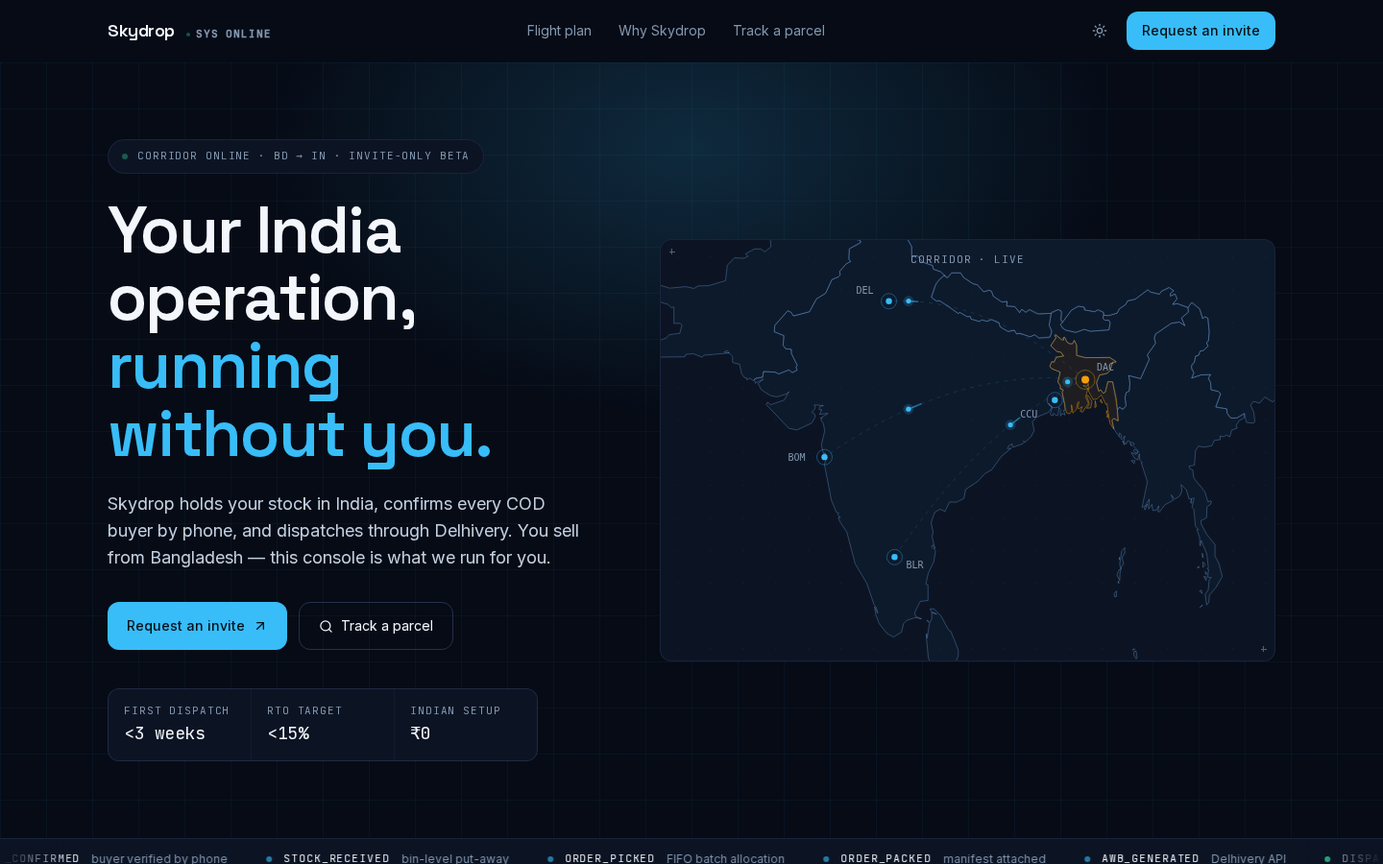
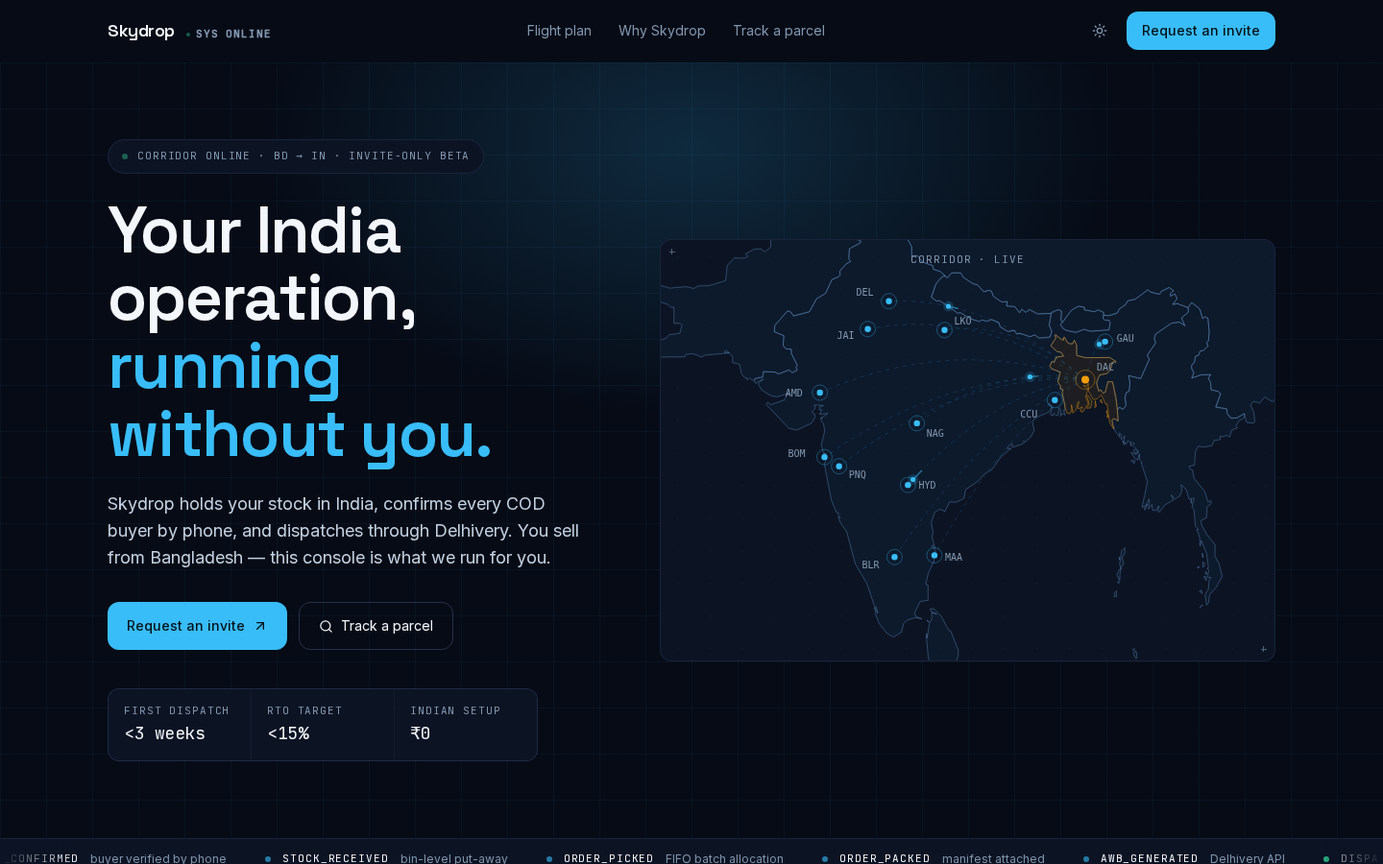
feat(marketing): pan-India corridor — 12 destination cities at true lat/lon
Review feedback: 4 metros made coverage look regional. Adds JAI, LKO,
GAU, AMD, NAG, PNQ, HYD, MAA (true geographic positions, hand-placed
label offsets). Parcel scheduler staggered so ~4 lanes fly at once —
alive, not swarmed. Delhivery genuinely serves all shown lanes.

diff --git a/apps/marketing/src/components/landing/map-geometry.ts b/apps/marketing/src/components/landing/map-geometry.ts
@@ -12,4 +12,4 @@ export const BD_RINGS: ReadonlyArray<Ring> = [[[0.6986, 0.4136], [0.6924, 0.382]
 export const LAND_RINGS: ReadonlyArray<Ring> = [[[0.4205, 0.8483], [0.4214, 0.8508], [0.4166, 0.8465], [0.4205, 0.8483]], [[0.4238, 0.8229], [0.4319, 0.8234], [0.4458, 0.8378], [0.4614, 0.8665], [0.4659, 0.869], [0.481, 0.9071], [0.4807, 0.92], [0.4738, 0.9358], [0.4462, 0.9507], [0.4324, 0.9497], [0.4271, 0.9449], [0.4199, 0.9223], [0.4156, 0.8773], [0.4167, 0.8735], [0.4176, 0.8827], [0.4221, 0.8534], [0.4272, 0.843], [0.4268, 0.8307], [0.4372, 0.834], [0.4256, 0.8284], [0.4238, 0.8229]], [[0.3262, -0.0387], [0.3348, -0.0203], [0.3211, -0.0079], [0.3043, -0.0057], [0.2943, -0.0001], [0.2515, -0.0089], [0.2412, -0.0051], [0.2362, 0.004], [0.2416, 0.0088], [0.2395, 0.0142], [0.2501, 0.0185], [0.2417, 0.026], [0.247, 0.0331], [0.2425, 0.0437], [0.2516, 0.0503], [0.2531, 0.0577], [0.2625, 0.0581], [0.2632, 0.0669], [0.2828, 0.074], [0.2804, 0.0786], [0.2592, 0.0894], [0.2581, 0.1105], [0.2616, 0.1155], [0.2527, 0.1202], [0.2394, 0.1355], [0.2404, 0.1426], [0.2367, 0.1469], [0.2237, 0.1522], [0.2106, 0.1804], [0.1921, 0.1916], [0.1779, 0.2179], [0.1453, 0.2264], [0.1402, 0.2187], [0.1335, 0.2158], [0.1072, 0.2459], [0.1063, 0.2586], [0.1257, 0.2665], [0.1243, 0.2863], [0.1292, 0.2931], [0.1409, 0.2944], [0.141, 0.3026], [0.153, 0.3271], [0.1506, 0.3309], [0.1529, 0.3367], [0.1429, 0.342], [0.1361, 0.3363], [0.1153, 0.3445], [0.1078, 0.3409], [0.0843, 0.3396], [0.0825, 0.3512], [0.0692, 0.3524], [0.0641, 0.3582], [0.0563, 0.3533], [0.0505, 0.3563], [0.0499, 0.3527], [0.0455, 0.352], [0.0396, 0.3442], [0.0355, 0.3248], [0.0213, 0.3213], [0.0212, 0.3091], [0.0099, 0.2966], [0.004, 0.3002], [0.0142, 0.3018], [-0.0371, 0.3064], [-0.0407, 0.3105], [-0.0588, 0.3032], [-0.074, 0.3049], [-0.076, 0.3096], [-0.1344, 0.3104], [-0.126, 0.2758], [-0.114, 0.2714], [-0.1079, 0.2646], [-0.0861, 0.2617], [-0.0818, 0.2449], [-0.0858, 0.2416], [-0.0981, 0.2416], [-0.0983, 0.2085], [-0.1041, 0.2088], [-0.1105, 0.2028], [-0.1245, 0.1985], [-0.1563, 0.1547], [-0.1068, 0.1697], [-0.0737, 0.1667], [-0.0576, 0.1703], [-0.0487, 0.1652], [-0.0275, 0.1647], [0.007, 0.1545], [0.0105, 0.1232], [0.0251, 0.1079], [0.044, 0.1088], [0.0526, 0.1052], [0.0478, 0.0998], [0.0655, 0.0899], [0.0787, 0.0899], [0.087, 0.0955], [0.0994, 0.0855], [0.0982, 0.0689], [0.1061, 0.0494], [0.1188, 0.0462], [0.1299, 0.0377], [0.1172, 0.0201], [0.1179, 0.0164], [0.141, 0.0183], [0.1531, 0.015], [0.1544, 0.0043], [0.1505, -0.001], [0.1703, -0.0227], [0.1644, -0.0444], [0.1571, -0.0514], [0.1703, -0.0645], [0.1749, -0.0644], [0.1866, -0.0734], [0.2157, -0.0789], [0.2436, -0.0775], [0.2607, -0.0846], [0.2771, -0.0825], [0.2832, -0.0804], [0.2855, -0.0746], [0.293, -0.0747], [0.2995, -0.07], [0.3022, -0.0627], [0.3004, -0.0516], [0.3075, -0.0443], [0.3198, -0.0462], [0.3201, -0.0424], [0.3262, -0.0387]], [[0.67, 0.221], [0.6662, 0.2455], [0.6714, 0.2564], [0.6683, 0.269], [0.6451, 0.2713], [0.6368, 0.2648], [0.6273, 0.2688], [0.6063, 0.2617], [0.5998, 0.2632], [0.5954, 0.2557], [0.5816, 0.2578], [0.5662, 0.2486], [0.5639, 0.24], [0.5482, 0.2336], [0.5403, 0.2374], [0.5287, 0.2345], [0.5239, 0.2377], [0.5071, 0.2327], [0.5054, 0.2275], [0.4985, 0.2276], [0.4845, 0.2195], [0.4804, 0.2211], [0.4596, 0.2055], [0.4421, 0.195], [0.437, 0.1963], [0.4258, 0.1877], [0.4339, 0.1643], [0.4428, 0.1515], [0.4518, 0.1443], [0.4599, 0.1487], [0.4672, 0.1388], [0.4805, 0.1379], [0.4862, 0.1391], [0.4915, 0.1478], [0.5107, 0.1606], [0.5199, 0.1629], [0.5328, 0.1772], [0.5435, 0.174], [0.5486, 0.176], [0.5524, 0.1863], [0.5696, 0.198], [0.5806, 0.1969], [0.5794, 0.2061], [0.5963, 0.2074], [0.6059, 0.2197], [0.6102, 0.2128], [0.6185, 0.219], [0.6247, 0.2132], [0.6406, 0.222], [0.67, 0.221]], [[0.0656, 0.3548], [0.0825, 0.3512], [0.0843, 0.3396], [0.1078, 0.3409], [0.1153, 0.3445], [0.1361, 0.3363], [0.1429, 0.342], [0.1529, 0.3367], [0.1506, 0.3309], [0.153, 0.3271], [0.141, 0.3026], [0.1409, 0.2944], [0.1292, 0.2931], [0.1243, 0.2863], [0.1257, 0.2665], [0.1063, 0.2586], [0.1072, 0.2459], [0.1335, 0.2158], [0.1402, 0.2187], [0.1453, 0.2264], [0.1779, 0.2179], [0.1921, 0.1916], [0.2106, 0.1804], [0.2237, 0.1522], [0.2367, 0.1469], [0.2404, 0.1426], [0.2394, 0.1355], [0.2527, 0.1202], [0.2616, 0.1155], [0.2581, 0.1105], [0.2592, 0.0894], [0.2826, 0.0761], [0.2799, 0.0709], [0.2632, 0.0669], [0.2625, 0.0581], [0.2531, 0.0577], [0.2516, 0.0503], [0.2425, 0.0437], [0.247, 0.0331], [0.2417, 0.026], [0.2501, 0.0185], [0.2395, 0.0142], [0.2416, 0.0088], [0.2362, 0.004], [0.2412, -0.0051], [0.2515, -0.0089], [0.2943, -0.0001], [0.3043, -0.0057], [0.3211, -0.0079], [0.3348, -0.0203], [0.3575, -0.0332], [0.365, -0.0326], [0.364, -0.025], [0.3736, -0.0035], [0.393, 0.0066], [0.3857, 0.0162], [0.388, 0.0333], [0.398, 0.0443], [0.4006, 0.0667], [0.3915, 0.0714], [0.3849, 0.0634], [0.3754, 0.066], [0.3859, 0.0847], [0.3861, 0.1059], [0.3971, 0.1032], [0.4089, 0.1169], [0.4288, 0.1237], [0.4301, 0.1311], [0.4449, 0.1362], [0.4548, 0.1445], [0.4499, 0.1454], [0.4364, 0.159], [0.4264, 0.189], [0.437, 0.1963], [0.4421, 0.195], [0.4804, 0.2211], [0.4845, 0.2195], [0.4985, 0.2276], [0.5054, 0.2275], [0.5071, 0.2327], [0.5239, 0.2377], [0.5287, 0.2345], [0.5403, 0.2374], [0.5482, 0.2336], [0.5639, 0.24], [0.5662, 0.2486], [0.583, 0.2583], [0.5954, 0.2557], [0.5998, 0.2632], [0.6063, 0.2617], [0.6273, 0.2688], [0.6368, 0.2648], [0.6451, 0.2713], [0.6665, 0.2706], [0.6716, 0.2592], [0.6662, 0.2455], [0.671, 0.2184], [0.6842, 0.2136], [0.691, 0.2164], [0.6894, 0.2326], [0.6936, 0.2394], [0.6891, 0.2441], [0.6927, 0.2513], [0.7015, 0.2561], [0.7202, 0.2599], [0.7377, 0.2537], [0.7497, 0.2576], [0.7878, 0.2548], [0.7904, 0.2403], [0.7876, 0.235], [0.78, 0.2352], [0.7756, 0.2314], [0.7768, 0.2247], [0.7872, 0.2257], [0.8045, 0.2207], [0.8092, 0.2118], [0.8218, 0.2033], [0.8259, 0.1957], [0.8412, 0.1923], [0.8673, 0.1729], [0.8718, 0.1775], [0.8906, 0.1821], [0.8944, 0.1764], [0.9102, 0.1684], [0.9199, 0.175], [0.9128, 0.1806], [0.9132, 0.1859], [0.9223, 0.1816], [0.9267, 0.1912], [0.9176, 0.2029], [0.9273, 0.2013], [0.9491, 0.2094], [0.9496, 0.2187], [0.9356, 0.2304], [0.9425, 0.2462], [0.9312, 0.2389], [0.9149, 0.2413], [0.8827, 0.2634], [0.8803, 0.2717], [0.8828, 0.282], [0.866, 0.306], [0.8699, 0.315], [0.8524, 0.3541], [0.828, 0.3479], [0.8308, 0.3606], [0.8292, 0.3789], [0.8231, 0.3823], [0.8205, 0.3927], [0.8228, 0.409], [0.8154, 0.417], [0.8097, 0.4122], [0.8052, 0.4174], [0.7953, 0.3606], [0.7857, 0.3604], [0.7804, 0.3816], [0.7763, 0.384], [0.7708, 0.3766], [0.7672, 0.3798], [0.7626, 0.364], [0.7687, 0.3469], [0.7842, 0.3435], [0.791, 0.3364], [0.7948, 0.3206], [0.8013, 0.3217], [0.8021, 0.3185], [0.7894, 0.311], [0.7406, 0.3114], [0.7222, 0.3069], [0.7219, 0.2853], [0.7173, 0.2762], [0.7136, 0.2831], [0.7082, 0.2831], [0.7026, 0.2798], [0.6976, 0.2697], [0.6946, 0.2708], [0.696, 0.275], [0.6918, 0.2749], [0.6778, 0.2645], [0.68, 0.271], [0.6692, 0.2871], [0.6819, 0.2988], [0.6899, 0.3003], [0.6955, 0.308], [0.6804, 0.3104], [0.6762, 0.3206], [0.6712, 0.3195], [0.6674, 0.3291], [0.6711, 0.3338], [0.6886, 0.3408], [0.6838, 0.3608], [0.6891, 0.3688], [0.6886, 0.3749], [0.6948, 0.3771], [0.6924, 0.382], [0.6984, 0.4075], [0.6978, 0.4188], [0.6954, 0.4187], [0.6986, 0.4282], [0.6927, 0.4252], [0.6893, 0.4305], [0.6891, 0.4165], [0.6861, 0.4126], [0.6844, 0.428], [0.6802, 0.4295], [0.6754, 0.4247], [0.6743, 0.4292], [0.6704, 0.4288], [0.6683, 0.4269], [0.6726, 0.412], [0.6648, 0.4042], [0.6715, 0.4126], [0.6651, 0.4225], [0.6394, 0.4333], [0.6321, 0.4421], [0.6356, 0.46], [0.6288, 0.4729], [0.6175, 0.4831], [0.6135, 0.4816], [0.6155, 0.4838], [0.6126, 0.4868], [0.5932, 0.4936], [0.5908, 0.4934], [0.591, 0.4871], [0.5832, 0.4914], [0.5813, 0.4968], [0.5891, 0.4958], [0.5688, 0.5125], [0.5487, 0.5402], [0.535, 0.5476], [0.5212, 0.563], [0.4958, 0.5801], [0.4927, 0.598], [0.4776, 0.6057], [0.4632, 0.6055], [0.4539, 0.6247], [0.4438, 0.6202], [0.4331, 0.6263], [0.4258, 0.6475], [0.4296, 0.6674], [0.4277, 0.6763], [0.4336, 0.7005], [0.429, 0.6929], [0.4262, 0.6965], [0.4347, 0.7046], [0.4312, 0.727], [0.4199, 0.7504], [0.4149, 0.7729], [0.4193, 0.7744], [0.4194, 0.8059], [0.4035, 0.8081], [0.3921, 0.8311], [0.3945, 0.8389], [0.4064, 0.8436], [0.3933, 0.841], [0.3764, 0.8465], [0.3694, 0.8536], [0.3655, 0.8705], [0.349, 0.8807], [0.3353, 0.8728], [0.3198, 0.8532], [0.3129, 0.835], [0.3104, 0.8191], [0.317, 0.8321], [0.3136, 0.8193], [0.3098, 0.8159], [0.2947, 0.7713], [0.271, 0.7312], [0.254, 0.6668], [0.2409, 0.6475], [0.2364, 0.6368], [0.2404, 0.6368], [0.2355, 0.6309], [0.2373, 0.628], [0.2327, 0.6263], [0.2224, 0.6013], [0.2083, 0.5285], [0.2123, 0.516], [0.2112, 0.5115], [0.2071, 0.5175], [0.2061, 0.514], [0.2064, 0.5067], [0.2118, 0.5074], [0.2057, 0.5046], [0.2021, 0.489], [0.2089, 0.4609], [0.2064, 0.4461], [0.2008, 0.4376], [0.204, 0.4343], [0.2004, 0.4346], [0.2155, 0.425], [0.1983, 0.4268], [0.2031, 0.4176], [0.1976, 0.4174], [0.1986, 0.4113], [0.2063, 0.4089], [0.1873, 0.4077], [0.1902, 0.4137], [0.183, 0.4226], [0.1882, 0.4257], [0.1895, 0.4323], [0.1823, 0.4448], [0.1522, 0.4587], [0.1359, 0.4553], [0.09, 0.407], [0.0924, 0.4021], [0.0993, 0.4071], [0.1266, 0.3976], [0.1361, 0.3804], [0.1315, 0.3853], [0.1111, 0.3913], [0.0981, 0.3884], [0.08, 0.377], [0.0732, 0.3643], [0.0841, 0.3549], [0.0677, 0.3635], [0.0656, 0.3548]], [[0.8452, 0.9223], [0.8433, 0.9251], [0.8381, 0.9161], [0.839, 0.9105], [0.8431, 0.9088], [0.8452, 0.9223]], [[0.8404, 0.9048], [0.8375, 0.9079], [0.8362, 0.906], [0.8404, 0.9048]], [[0.8031, 0.7981], [0.799, 0.7984], [0.7986, 0.7916], [0.8034, 0.7867], [0.8031, 0.7981]], [[0.8088, 0.7706], [0.8059, 0.7704], [0.8073, 0.7664], [0.8088, 0.7706]], [[0.8098, 0.7655], [0.804, 0.7542], [0.8084, 0.7436], [0.8118, 0.7425], [0.8097, 0.7319], [0.8139, 0.7048], [0.8201, 0.6985], [0.8202, 0.7093], [0.8147, 0.7186], [0.8179, 0.7321], [0.8141, 0.7355], [0.8105, 0.7502], [0.8098, 0.7655]], [[0.8096, 0.7212], [0.8086, 0.7233], [0.8094, 0.7179], [0.8096, 0.7212]], [[1.2719, 0.4331], [1.2654, 0.4281], [1.2531, 0.4297], [1.2415, 0.4192], [1.2322, 0.4174], [1.2289, 0.4], [1.2357, 0.3907], [1.2285, 0.3864], [1.2206, 0.3881], [1.2166, 0.3843], [1.2074, 0.3859], [1.1901, 0.3718], [1.1777, 0.3788], [1.1723, 0.3893], [1.1627, 0.3932], [1.1559, 0.39], [1.1498, 0.3986], [1.14, 0.3906], [1.1361, 0.3971], [1.1303, 0.3912], [1.1214, 0.4016], [1.1051, 0.3916], [1.0948, 0.404], [1.082, 0.4004], [1.0764, 0.4082], [1.0829, 0.4225], [1.085, 0.4422], [1.0827, 0.4448], [1.0682, 0.4434], [1.063, 0.4248], [1.0486, 0.4343], [1.0348, 0.434], [1.0286, 0.4247], [1.0278, 0.4157], [1.0052, 0.4115], [1.0154, 0.3847], [1.0103, 0.3801], [0.9958, 0.3769], [0.995, 0.3625], [0.9902, 0.3532], [0.995, 0.346], [0.9761, 0.3463], [0.9564, 0.353], [0.9608, 0.3424], [0.9555, 0.329], [0.9618, 0.321], [0.9642, 0.3082], [0.97, 0.3069], [0.974, 0.2976], [0.9798, 0.2971], [0.9896, 0.2879], [0.9868, 0.2809], [0.9905, 0.277], [0.9921, 0.26], [0.9894, 0.2309], [0.9834, 0.2281], [0.9787, 0.2317], [0.9727, 0.2119], [0.9594, 0.2], [0.9557, 0.1996], [0.9491, 0.2094], [0.9273, 0.2013], [0.9176, 0.2029], [0.9267, 0.1912], [0.9223, 0.1816], [0.9132, 0.1859], [0.9128, 0.1806], [0.9199, 0.175], [0.9102, 0.1684], [0.8944, 0.1764], [0.8906, 0.1821], [0.8718, 0.1775], [0.8673, 0.1729], [0.8412, 0.1923], [0.8259, 0.1957], [0.8218, 0.2033], [0.8092, 0.2118], [0.8045, 0.2207], [0.7872, 0.2257], [0.7768, 0.2247], [0.777, 0.2192], [0.7659, 0.214], [0.7582, 0.2177], [0.7379, 0.214], [0.7378, 0.2085], [0.7242, 0.2069], [0.7115, 0.2147], [0.6936, 0.2394], [0.6898, 0.2357], [0.6923, 0.221], [0.6896, 0.2153], [0.6842, 0.2136], [0.67, 0.221], [0.6452, 0.2226], [0.627, 0.2135], [0.6185, 0.219], [0.6102, 0.2128], [0.6059, 0.2197], [0.5963, 0.2074], [0.5794, 0.2061], [0.5806, 0.1969], [0.5696, 0.198], [0.5524, 0.1863], [0.5486, 0.176], [0.5435, 0.174], [0.5328, 0.1772], [0.5199, 0.1629], [0.5107, 0.1606], [0.4915, 0.1478], [0.4862, 0.1391], [0.4672, 0.1388], [0.4579, 0.1488], [0.4449, 0.1362], [0.4301, 0.1311], [0.4288, 0.1237], [0.4089, 0.1169], [0.3971, 0.1032], [0.3866, 0.1066], [0.3859, 0.0847], [0.3754, 0.066], [0.3849, 0.0634], [0.3915, 0.0714], [0.4006, 0.0667], [0.398, 0.0443], [0.388, 0.0333], [0.3857, 0.0162], [0.393, 0.0066], [0.3722, -0.0052], [0.364, -0.025], [0.365, -0.0326], [0.336, -0.0351], [0.3222, -0.041], [0.3198, -0.0462], [0.3084, -0.0437], [0.3004, -0.0516], [0.3022, -0.0627], [0.2982, -0.0716], [0.2855, -0.0746], [0.2832, -0.0804], [0.2588, -0.0841], [0.2538, -0.0879], [0.2645, -0.093], [0.2694, -0.091], [0.2764, -0.0962], [0.2695, -0.1034], [0.267, -0.132], [0.2508, -0.1387], [0.2416, -0.1344], [0.235, -0.14], [0.2332, -0.1451], [0.2365, -0.149], [0.2305, -0.1576], [0.2313, -0.165], [0.2396, -0.1693], [0.2374, -0.1767], [0.2406, -0.1826], [0.2676, -0.1943], [0.2677, -0.1994], [0.2801, -0.1994], [0.2885, -0.2043], [0.2933, -0.1935], [0.3108, -0.1977], [0.3127, -0.1951], [0.3306, -0.2175], [0.3674, -0.2192], [0.3747, -0.229], [0.3861, -0.2354], [0.4194, -0.2499], [0.4314, -0.2514], [0.4292, -0.2722], [0.4318, -0.2766], [0.4406, -0.2791], [0.4361, -0.2848], [0.4481, -0.2887], [0.435, -0.3199], [0.435, -0.3351], [0.4388, -0.3405], [0.4204, -0.3461], [0.426, -0.3502], [0.4755, -0.3616], [0.4808, -0.3561], [0.4929, -0.3573], [0.5007, -0.3542], [0.5034, -0.3642], [0.4944, -0.3698], [0.516, -0.4228], [0.5459, -0.4157], [0.5657, -0.4157], [0.5693, -0.411], [0.5904, -0.4188], [0.5957, -0.4252], [0.5916, -0.4472], [0.5955, -0.4584], [0.5985, -0.4628], [0.6227, -0.4676], [0.6279, -0.4732], [0.6288, -0.4836], [0.6329, -0.4864], [0.661, -0.4888], [0.6628, -0.4833], [0.6588, -0.4794], [0.6684, -0.4736], [0.666, -0.4685], [0.6823, -0.4628], [0.6842, -0.4573], [0.6984, -0.4501], [0.7115, -0.451], [0.7206, -0.4443], [0.7281, -0.4459], [0.7367, -0.4392], [0.7423, -0.4262], [0.7536, -0.4151], [0.7584, -0.4022], [0.7548, -0.3923], [0.7577, -0.3845], [0.7487, -0.3743], [0.7473, -0.3675], [0.7539, -0.3565], [0.8338, -0.3481], [0.87, -0.3283], [0.8894, -0.3259], [0.8887, -0.318], [0.8947, -0.3151], [0.9048, -0.2925], [0.9182, -0.281], [0.9208, -0.274], [0.9456, -0.2763], [1.0142, -0.2689], [1.0298, -0.2726], [1.0756, -0.2679], [1.0956, -0.2553], [1.1235, -0.2502], [1.1428, -0.2417], [1.1666, -0.2459], [1.1666, -0.2387], [1.1813, -0.2365], [1.2355, -0.2596], [1.2779, -0.2649], [1.3133, -0.2646], [1.3455, -0.2758], [1.3639, -0.2947], [1.3919, -0.307], [1.3758, -0.3289], [1.3825, -0.3443], [1.3909, -0.3521], [1.4065, -0.352], [1.4154, -0.3461], [1.442, -0.3415], [1.457, -0.3491], [1.4715, -0.363], [1.5055, -0.3653], [1.5211, -0.3746], [1.5322, -0.393], [1.5412, -0.3963], [1.5556, -0.3954], [1.5587, -0.4029], [1.5679, -0.4006], [1.5779, -0.4055], [1.6013, -0.4087], [1.6161, -0.4038], [1.6324, -0.4057], [1.6333, -0.4119], [1.6276, -0.4217], [1.5908, -0.4495], [1.5688, -0.4496], [1.5561, -0.4384], [1.5382, -0.4456], [1.5222, -0.4453], [1.5121, -0.4396], [1.5035, -0.4458], [1.5007, -0.4544], [1.5087, -0.4583], [1.5098, -0.4692], [1.5358, -0.5108], [1.5719, -0.5004], [1.5894, -0.5115], [1.6139, -0.5189], [1.6166, -0.526], [1.611, -0.5302], [1.6384, -0.57], [1.6591, -0.5865], [1.6563, -0.6022], [1.6415, -0.6034], [1.6377, -0.6073], [1.6662, -0.6261], [1.7457, -0.6349], [1.7822, -0.6211], [1.7901, -0.6235], [1.8076, -0.6181], [1.8285, -0.5954], [1.8462, -0.5533], [1.8578, -0.5403], [1.8587, -0.5283], [1.8664, -0.5236], [1.8634, -0.5158], [1.8652, -0.51], [1.8788, -0.5023], [1.9001, -0.5033], [1.9111, -0.4958], [1.9242, -0.4963], [1.9454, -0.4797], [1.9562, -0.4787], [1.9562, -0.4701], [1.9638, -0.4614], [1.9616, -0.4506], [1.9698, -0.4397], [2.0144, -0.4405], [2.0214, -0.4482], [2.0347, -0.4535], [2.0445, -0.4532], [2.0695, -0.4624], [2.0807, -0.4585], [2.0778, -0.4507], [2.0834, -0.4405], [2.0657, -0.4267], [2.0668, -0.4209], [2.0565, -0.4], [2.0564, -0.3916], [2.0458, -0.3793], [2.0435, -0.3702], [2.0359, -0.3665], [2.0337, -0.3544], [2.0284, -0.351], [1.9955, -0.3609], [1.9832, -0.3495], [1.9691, -0.3448], [1.9774, -0.319], [1.9749, -0.3068], [1.9775, -0.2959], [1.9718, -0.2801], [1.9522, -0.2742], [1.9568, -0.2708], [1.9554, -0.2679], [1.9483, -0.2728], [1.9467, -0.2797], [1.9363, -0.2833], [1.9302, -0.2649], [1.9186, -0.2638], [1.9067, -0.2513], [1.8801, -0.2496], [1.8875, -0.2369], [1.8833, -0.2296], [1.8539, -0.2344], [1.8455, -0.2427], [1.8401, -0.2406], [1.8178, -0.2135], [1.7846, -0.1987], [1.7657, -0.1808], [1.7608, -0.178], [1.747, -0.1794], [1.7224, -0.17], [1.7071, -0.1622], [1.6964, -0.1518], [1.6871, -0.1501], [1.6864, -0.1455], [1.6717, -0.141], [1.6699, -0.1473], [1.6873, -0.1536], [1.6857, -0.1573], [1.6915, -0.1629], [1.675, -0.1628], [1.6748, -0.1682], [1.6823, -0.1713], [1.6823, -0.1782], [1.691, -0.1817], [1.7049, -0.2], [1.6927, -0.2114], [1.6919, -0.2158], [1.6888, -0.2115], [1.672, -0.2134], [1.6509, -0.191], [1.6179, -0.1751], [1.6053, -0.1561], [1.5848, -0.1523], [1.577, -0.1576], [1.5692, -0.1545], [1.5622, -0.1397], [1.5653, -0.1308], [1.5762, -0.1228], [1.6042, -0.1181], [1.6087, -0.1067], [1.6047, -0.0944], [1.6095, -0.09], [1.6291, -0.0885], [1.6328, -0.095], [1.6458, -0.1041], [1.6442, -0.106], [1.6591, -0.1111], [1.6861, -0.0987], [1.6959, -0.0981], [1.6987, -0.101], [1.7171, -0.0968], [1.7105, -0.0856], [1.7127, -0.0815], [1.7073, -0.0777], [1.7019, -0.0819], [1.6949, -0.082], [1.6683, -0.0704], [1.661, -0.0711], [1.6635, -0.0648], [1.6579, -0.0638], [1.6557, -0.0543], [1.6483, -0.0518], [1.6463, -0.0576], [1.6419, -0.0568], [1.6393, -0.0539], [1.645, -0.0495], [1.6191, -0.0267], [1.6111, -0.0116], [1.6122, -0.0083], [1.6445, 0.0075], [1.6627, 0.0495], [1.6623, 0.0613], [1.677, 0.0691], [1.6803, 0.0782], [1.6919, 0.0867], [1.6929, 0.0932], [1.6898, 0.0933], [1.6773, 0.0881], [1.6659, 0.0877], [1.6521, 0.0798], [1.6374, 0.0855], [1.658, 0.0839], [1.6602, 0.0893], [1.6867, 0.106], [1.6919, 0.1146], [1.6933, 0.1194], [1.6794, 0.1237], [1.6613, 0.1382], [1.6499, 0.1371], [1.6423, 0.1419], [1.6514, 0.1399], [1.6555, 0.1456], [1.6745, 0.1399], [1.6873, 0.1507], [1.6995, 0.1543], [1.682, 0.1672], [1.6936, 0.1624], [1.696, 0.167], [1.6945, 0.1789], [1.6885, 0.1748], [1.6803, 0.179], [1.6873, 0.1849], [1.683, 0.1856], [1.6867, 0.1883], [1.681, 0.1953], [1.6852, 0.2069], [1.6749, 0.2092], [1.6711, 0.2058], [1.6654, 0.2154], [1.659, 0.2164], [1.6616, 0.2203], [1.6542, 0.2306], [1.6547, 0.2363], [1.6448, 0.2467], [1.6376, 0.2622], [1.6328, 0.263], [1.6311, 0.2551], [1.6276, 0.2591], [1.6239, 0.2572], [1.6327, 0.2722], [1.6201, 0.2815], [1.6102, 0.2793], [1.6161, 0.285], [1.6249, 0.2832], [1.6225, 0.297], [1.625, 0.3036], [1.6115, 0.3017], [1.6147, 0.3089], [1.6053, 0.3097], [1.6033, 0.319], [1.5951, 0.3221], [1.5976, 0.3251], [1.5956, 0.3293], [1.5784, 0.3291], [1.576, 0.3339], [1.571, 0.3342], [1.5775, 0.3418], [1.5645, 0.3555], [1.5596, 0.3553], [1.5566, 0.3637], [1.5543, 0.3595], [1.5479, 0.364], [1.5427, 0.3618], [1.5413, 0.3683], [1.5342, 0.3716], [1.5364, 0.3741], [1.5315, 0.3773], [1.5294, 0.3852], [1.5227, 0.3839], [1.5106, 0.39], [1.5043, 0.3882], [1.4999, 0.3927], [1.4908, 0.3894], [1.4804, 0.3961], [1.4743, 0.3915], [1.4714, 0.399], [1.4648, 0.3969], [1.455, 0.3996], [1.443, 0.3879], [1.443, 0.3791], [1.4399, 0.3799], [1.4343, 0.3863], [1.441, 0.3968], [1.4409, 0.4092], [1.4287, 0.4141], [1.427, 0.4097], [1.4228, 0.4198], [1.4185, 0.4185], [1.4117, 0.4241], [1.4048, 0.4174], [1.4032, 0.4253], [1.3923, 0.4217], [1.3819, 0.4314], [1.3641, 0.433], [1.3505, 0.4428], [1.3458, 0.4387], [1.3381, 0.4519], [1.3444, 0.4554], [1.3429, 0.461], [1.3489, 0.4661], [1.3438, 0.4735], [1.3298, 0.4712], [1.3324, 0.4684], [1.3231, 0.4527], [1.3237, 0.4456], [1.3313, 0.434], [1.3239, 0.4325], [1.3202, 0.427], [1.3195, 0.4321], [1.3075, 0.4358], [1.3061, 0.4303], [1.2962, 0.429], [1.2907, 0.42], [1.2872, 0.4199], [1.288, 0.4289], [1.2825, 0.4269], [1.2802, 0.4314], [1.2719, 0.4331]], [[1.034, 0.4728], [1.027, 0.4692], [1.0218, 0.4725], [1.0139, 0.4713], [1.0147, 0.4783], [1.0023, 0.48], [0.9975, 0.4909], [0.981, 0.4937], [0.9702, 0.4917], [0.9642, 0.5014], [0.962, 0.5304], [0.9508, 0.5327], [0.9531, 0.538], [0.9585, 0.5403], [0.9608, 0.5568], [0.983, 0.5842], [0.9897, 0.6056], [0.9951, 0.6027], [0.9966, 0.6049], [0.9945, 0.6107], [0.9876, 0.615], [0.9866, 0.6377], [0.9755, 0.6432], [0.9759, 0.6508], [0.987, 0.6714], [1.0041, 0.6928], [1.0038, 0.7156], [1.0123, 0.7317], [1.0186, 0.7573], [1.0058, 0.7798], [0.9927, 0.7946], [0.991, 0.8103], [0.9868, 0.8155], [0.9838, 0.7942], [0.9902, 0.7838], [0.9921, 0.7636], [0.9963, 0.7593], [0.989, 0.7587], [0.9908, 0.7425], [0.9879, 0.7418], [0.9903, 0.7384], [0.9871, 0.7113], [0.9758, 0.684], [0.9742, 0.6951], [0.973, 0.6929], [0.9727, 0.678], [0.9669, 0.6616], [0.9703, 0.6616], [0.964, 0.6547], [0.9609, 0.6208], [0.9571, 0.616], [0.9614, 0.5977], [0.9508, 0.5993], [0.9454, 0.5802], [0.9348, 0.57], [0.9366, 0.5823], [0.9323, 0.593], [0.9222, 0.5998], [0.9148, 0.591], [0.9189, 0.6019], [0.9019, 0.611], [0.8906, 0.6259], [0.8879, 0.6248], [0.8892, 0.6134], [0.8841, 0.6225], [0.877, 0.6227], [0.8755, 0.6105], [0.8685, 0.6199], [0.8698, 0.5996], [0.8619, 0.6135], [0.8553, 0.6161], [0.8663, 0.5644], [0.8537, 0.5256], [0.856, 0.5253], [0.8506, 0.5202], [0.8499, 0.5071], [0.8464, 0.52], [0.8396, 0.5158], [0.8332, 0.5044], [0.8432, 0.5087], [0.8484, 0.502], [0.8367, 0.4908], [0.8396, 0.4862], [0.8258, 0.481], [0.8222, 0.488], [0.8182, 0.4809], [0.8202, 0.4707], [0.8146, 0.4783], [0.8119, 0.4763], [0.8136, 0.4695], [0.8094, 0.4645], [0.8098, 0.4735], [0.7994, 0.4594], [0.7934, 0.4402], [0.7979, 0.4353], [0.806, 0.441], [0.8052, 0.4174], [0.8087, 0.4123], [0.8171, 0.4165], [0.8228, 0.409], [0.8205, 0.3927], [0.8231, 0.3823], [0.8288, 0.3805], [0.8306, 0.3657], [0.828, 0.3479], [0.8524, 0.3541], [0.8699, 0.315], [0.866, 0.306], [0.8828, 0.282], [0.8803, 0.2717], [0.8827, 0.2634], [0.9149, 0.2413], [0.9312, 0.2389], [0.9425, 0.2462], [0.9356, 0.2304], [0.9496, 0.2187], [0.9491, 0.2094], [0.9557, 0.1996], [0.9727, 0.2119], [0.9787, 0.2317], [0.9834, 0.2281], [0.9894, 0.2309], [0.9921, 0.2572], [0.9905, 0.277], [0.9868, 0.2809], [0.9896, 0.2879], [0.9798, 0.2971], [0.974, 0.2976], [0.97, 0.3069], [0.9642, 0.3082], [0.9618, 0.321], [0.9571, 0.3242], [0.9555, 0.3336], [0.9608, 0.3424], [0.9564, 0.353], [0.9761, 0.3463], [0.995, 0.346], [0.9902, 0.3532], [0.995, 0.3625], [0.9958, 0.3769], [1.0103, 0.3801], [1.0154, 0.3847], [1.0059, 0.4125], [1.0278, 0.4157], [1.0286, 0.4247], [1.0368, 0.4346], [1.0486, 0.4343], [1.0646, 0.4255], [1.063, 0.4344], [1.0532, 0.4396], [1.0466, 0.4503], [1.0492, 0.4547], [1.0378, 0.459], [1.034, 0.4728]], [[0.9761, 0.7849], [0.9779, 0.792], [0.9722, 0.7871], [0.9761, 0.7849]], [[0.9752, 0.8189], [0.9732, 0.8207], [0.9785, 0.8149], [0.9752, 0.8189]], [[0.9854, 0.7532], [0.9838, 0.7472], [0.9882, 0.7515], [0.9854, 0.7532]], [[0.9864, 0.7585], [0.9857, 0.7654], [0.9811, 0.7569], [0.9864, 0.7585]], [[0.9822, 0.73], [0.9836, 0.7342], [0.9792, 0.7388], [0.9791, 0.7274], [0.9822, 0.73]], [[0.863, 0.6185], [0.861, 0.6217], [0.8602, 0.6169], [0.8667, 0.6098], [0.863, 0.6185]], [[0.9568, 0.6082], [0.9539, 0.6065], [0.9558, 0.5998], [0.9568, 0.6082]], [[0.8391, 0.5272], [0.833, 0.5211], [0.8407, 0.5211], [0.8391, 0.5272]], [[0.8331, 0.4869], [0.8337, 0.4915], [0.8307, 0.485], [0.8331, 0.4869]], [[0.8398, 0.4981], [0.8468, 0.5024], [0.8455, 0.5056], [0.8411, 0.5058], [0.8376, 0.5002], [0.8398, 0.4981]], [[0.9717, 0.737], [0.9698, 0.7407], [0.9678, 0.7385], [0.9717, 0.737]], [[0.9792, 0.7134], [0.979, 0.7189], [0.9777, 0.7099], [0.9792, 0.7134]], [[0.8184, 0.4858], [0.8189, 0.489], [0.8156, 0.4805], [0.8184, 0.4858]], [[0.7768, 0.2247], [0.7756, 0.2314], [0.78, 0.2352], [0.7876, 0.235], [0.7904, 0.2403], [0.7878, 0.2548], [0.7497, 0.2576], [0.7377, 0.2537], [0.7202, 0.2599], [0.6982, 0.2545], [0.6891, 0.2441], [0.7115, 0.2147], [0.7267, 0.2063], [0.7378, 0.2085], [0.7379, 0.214], [0.7582, 0.2177], [0.7659, 0.214], [0.777, 0.2192], [0.7768, 0.2247]]] as const;
 
 /** Corridor nodes at true geographic positions. */
-export const GEO_NODES: Record<string, readonly [number, number]> = {"DAC": [0.7397, 0.3563], "DEL": [0.3397, 0.1963], "CCU": [0.6776, 0.3977], "BOM": [0.2085, 0.514], "BLR": [0.3512, 0.7177]} as const;
+export const GEO_NODES: Record<string, readonly [number, number]> = {"DAC": [0.7397, 0.3563], "DEL": [0.3397, 0.1963], "JAI": [0.2967, 0.253], "LKO": [0.453, 0.255], "GAU": [0.78, 0.2787], "AMD": [0.1991, 0.3827], "CCU": [0.6776, 0.3977], "NAG": [0.3967, 0.445], "BOM": [0.2085, 0.514], "PNQ": [0.2382, 0.5327], "HYD": [0.3785, 0.5707], "MAA": [0.4324, 0.714], "BLR": [0.3512, 0.7177]} as const;

diff --git a/apps/marketing/src/components/landing/corridor-console.tsx b/apps/marketing/src/components/landing/corridor-console.tsx
@@ -35,11 +35,22 @@ const ORIGIN: NodeDef = {
   id: 'DAC', x: geo('DAC')[0], y: geo('DAC')[1],
   label: 'DAC', labelDx: 12, labelDy: -10, origin: true,
 };
+
+// Pan-India destination set — Delhivery covers all of these lanes.
+// Label offsets hand-placed to avoid collisions at hero scale.
 const DESTS: NodeDef[] = [
-  { id: 'DEL', x: geo('DEL')[0], y: geo('DEL')[1], label: 'DEL', labelDx: -34, labelDy: -8 },
+  { id: 'DEL', x: geo('DEL')[0], y: geo('DEL')[1], label: 'DEL', labelDx: -34, labelDy: -6 },
+  { id: 'JAI', x: geo('JAI')[0], y: geo('JAI')[1], label: 'JAI', labelDx: -32, labelDy: 10 },
+  { id: 'LKO', x: geo('LKO')[0], y: geo('LKO')[1], label: 'LKO', labelDx: 10, labelDy: -6 },
+  { id: 'GAU', x: geo('GAU')[0], y: geo('GAU')[1], label: 'GAU', labelDx: 12, labelDy: 0 },
+  { id: 'AMD', x: geo('AMD')[0], y: geo('AMD')[1], label: 'AMD', labelDx: -36, labelDy: 4 },
   { id: 'CCU', x: geo('CCU')[0], y: geo('CCU')[1], label: 'CCU', labelDx: -36, labelDy: 18 },
-  { id: 'BOM', x: geo('BOM')[0], y: geo('BOM')[1], label: 'BOM', labelDx: -38, labelDy: 4 },
-  { id: 'BLR', x: geo('BLR')[0], y: geo('BLR')[1], label: 'BLR', labelDx: 12, labelDy: 12 },
+  { id: 'NAG', x: geo('NAG')[0], y: geo('NAG')[1], label: 'NAG', labelDx: 10, labelDy: 14 },
+  { id: 'BOM', x: geo('BOM')[0], y: geo('BOM')[1], label: 'BOM', labelDx: -38, labelDy: 0 },
+  { id: 'PNQ', x: geo('PNQ')[0], y: geo('PNQ')[1], label: 'PNQ', labelDx: 10, labelDy: 12 },
+  { id: 'HYD', x: geo('HYD')[0], y: geo('HYD')[1], label: 'HYD', labelDx: 11, labelDy: 4 },
+  { id: 'MAA', x: geo('MAA')[0], y: geo('MAA')[1], label: 'MAA', labelDx: 11, labelDy: 6 },
+  { id: 'BLR', x: geo('BLR')[0], y: geo('BLR')[1], label: 'BLR', labelDx: -34, labelDy: 12 },
 ];
 
 function ctrl(a: NodeDef, b: NodeDef): { x: number; y: number } {
@@ -129,11 +140,13 @@ export function CorridorConsole(): ReactElement {
     };
     readColors();
 
+    // With 12 lanes, keep ~4 parcels airborne at once — the rest wait
+    // on staggered delays so traffic reads alive, not swarmed.
     const parcels: Parcel[] = DESTS.map((_, i) => ({
       dest: i,
-      t: Math.random() * 0.9,
+      t: i % 3 === 0 ? Math.random() * 0.8 : 0,
       speed: 0.0016 + Math.random() * 0.0012,
-      delay: 0,
+      delay: i % 3 === 0 ? 0 : 90 + Math.random() * 700,
     }));
     const pulses: Pulse[] = [];
     let sweep = -0.2;
@@ -297,7 +310,7 @@ export function CorridorConsole(): ReactElement {
           const dp = px(dest);
           pulses.push({ x: dp.x, y: dp.y, r: 4, alpha: 0.7 });
           p.t = 0;
-          p.delay = 120 + Math.random() * 260;
+          p.delay = 260 + Math.random() * 640;
           p.speed = 0.0016 + Math.random() * 0.0012;
           continue;
         }
